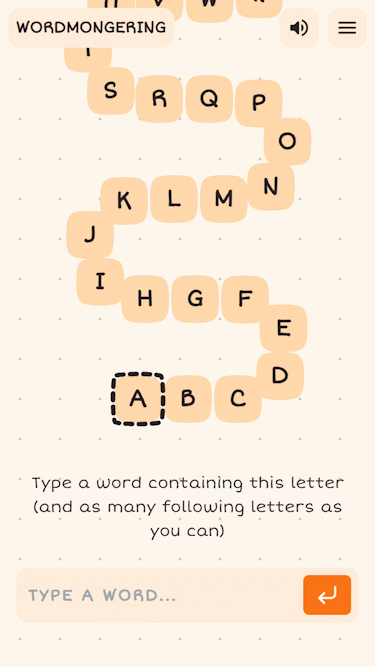
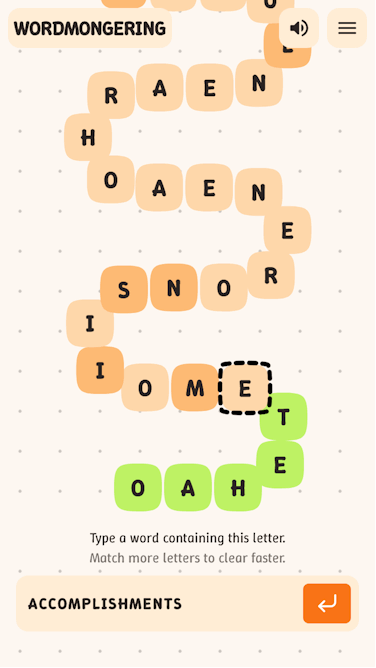
chore: nits and update screenshot

Changed region(s): [[0.0293, 0.0, 0.9093, 0.9295], [0.792, 0.8396, 0.9387, 0.9595], [0.88, 0.03, 0.968, 0.06]]

diff --git a/client/index.html b/client/index.html
@@ -4,7 +4,7 @@
     <meta charset="UTF-8" />
     <link rel="icon" type="image/svg+xml" href="/favicon.svg" />
     <meta name="viewport" content="width=device-width, initial-scale=1.0" />
-    <title>Wordmongering - a daily game of playing long words</title>
+    <title>Wordmongering - A daily game of playing long words</title>
     <meta
       name="description"
       content="A daily game of playing long words. Clear the puzzles in as few turns as possible using your large vocabulary of pretentious words."

diff --git a/client/src/pages/ArchivePage.tsx b/client/src/pages/ArchivePage.tsx
@@ -90,7 +90,7 @@ function MonthCalendar({ year, month, firstDayOfWeek, daysInMonth, puzzleDays }:
           <div class="text-xs font-bold text-gray-400 p-1">{h}</div>
         ))}
         {Array.from({ length: firstDayOfWeek }, (_, i) => (
-          <div key={`pad-${i}`} class="aspect-square" />
+          <div key={`pad-${i}`} />
         ))}
         {Array.from({ length: daysInMonth }, (_, i) => {
           const dayOfMonth = i + 1;

diff --git a/README.md b/README.md
@@ -6,7 +6,10 @@ Try it out at [wordmongering.com](https://wordmongering.com)
 
 ## TODO
 
-- show score and alternate play button if played already
+- favicon
+- homepage logo
+
+- nations/nationalities
 
 - improve tui
 - improve everything else
